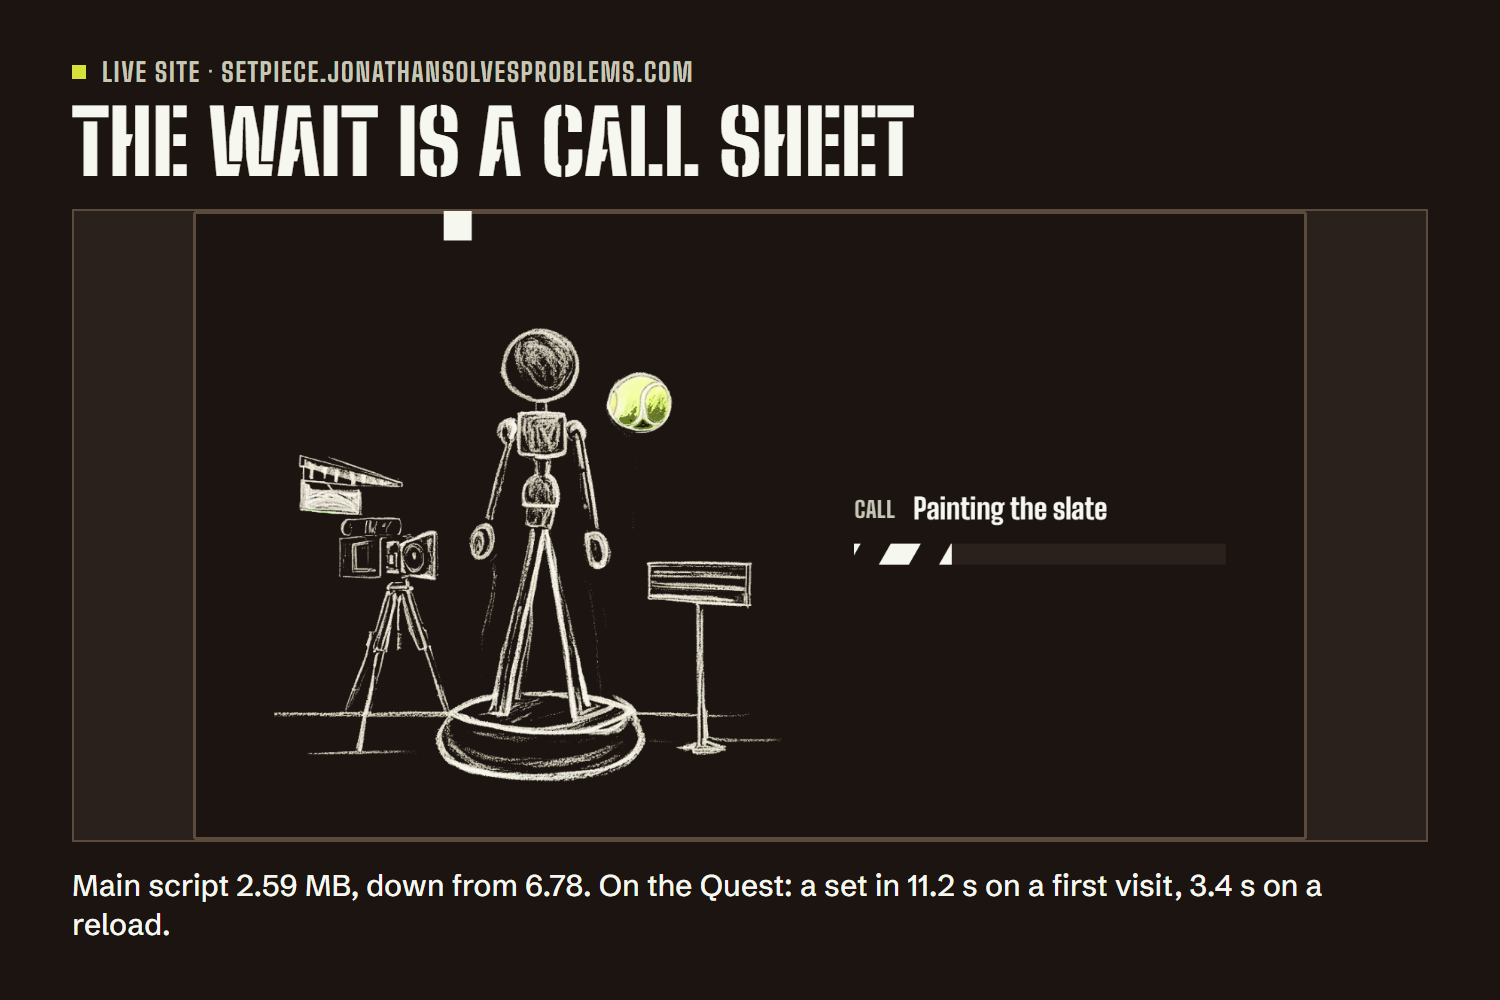
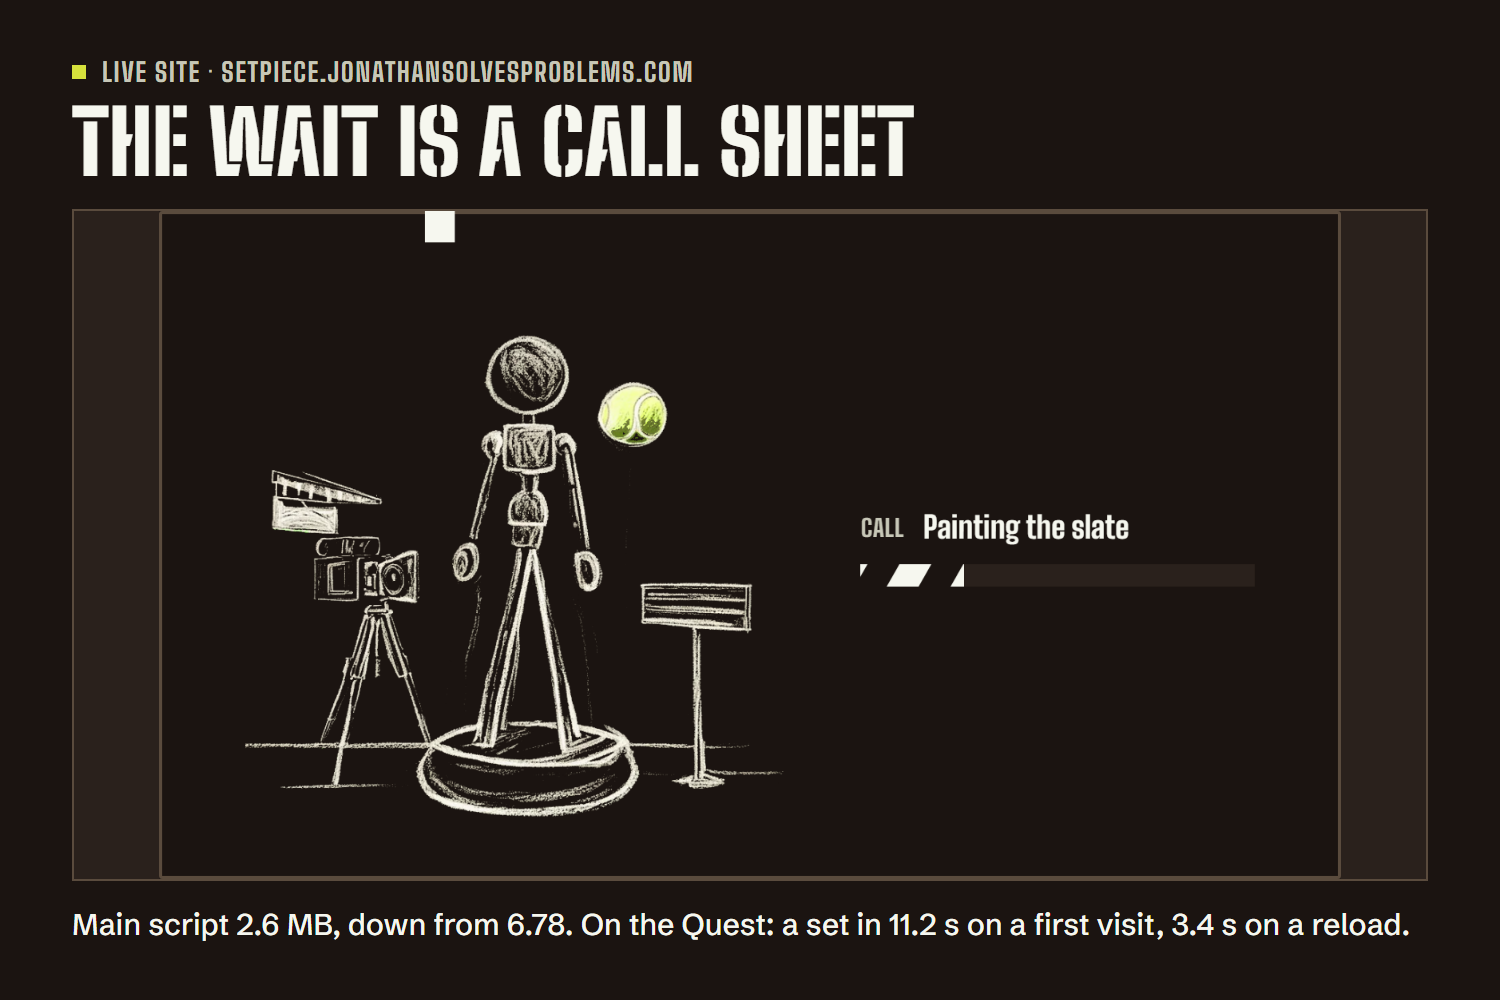
Record the evening's validation on the card, the size of this build and its live checks

Changed region(s): [[0.0307, 0.31, 0.9507, 0.961], [0.552, 0.496, 0.7667, 0.589], [0.276, 0.186, 0.3373, 0.248]]

diff --git a/PHASE0.md b/PHASE0.md
@@ -251,6 +251,10 @@ Nov 12 afternoon, two and a half minutes on the headset with the session logged,
 
 What was changed because of it (1a175a2), all proven in the emulator only. Sizing is gentle and bounded: hands that start close count as 20 cm apart, a piece goes from half to 2.2 times and never longer than 0.9 m, it settles on the kit's sizes, a fist starts it as a pinch does, fingers on the carried piece are for it whatever else is inside its shape, and the Size button's first press goes back to the piece's own size (`tmp/val14.py`, 14 of 14). A vehicle knocks someone down only when driven at them, the way it points or straight back, and whatever moves has to be heading for them (`tmp/t-carry.mjs`). A set asked for while a take plays or records stops the take and is built, and a set started over strikes the old take (`tmp/val19.py`, 10 of 10). Two panel presses a moment apart count as one, and a hand with its fingers on an oversize piece is for the piece, not for the panel behind it. What came of a spoken sentence is written under the button on the panel as well as on the sheet, and the recogniser is no longer told "our", "any", "your", "my", "these", "those". Undo: the set is remembered at each quiet moment and one press, or "undo" or "bring it back", puts it back as it stood before the last change, 24 deep (`tmp/val20.py`, 12 of 12). For the frame rate, half of the input pass in the emulator turned out to be the panel's 280 small meshes, tried by each hand's ray and each fingertip on every frame: the panel is closed to the hand pointers unless a hand points at it or reaches for it (3.3 ms to 1.7 ms a frame in the emulator, not yet measured on the headset; the watcher now also records where the input pass spends its time). The tagline no longer says "median 90 fps": it says "never under 60 fps", which all 56 headset samples support and `tools/check-claims.mjs` now enforces. A test lesson: the main suite's take step raced the take's 12 s limit and lost on a busy laptop, pressing Play where Record had been; it waits for the limit now.
 
+Nov 12 evening, the validation asked for after that session. A fresh reader, given the session log and the code but not my conclusions, walked the first ten minutes as a newcomer and came back with twelve ranked findings; I found a thirteenth myself. Mine first, because it undid a claim two paragraphs up: the line under the voice button never showed what came of a sentence. The note it read is cleared by the call sheet inside the same call, so the panel only ever said "Heard: ...", and the emulator had no test on that path. From the log, beyond what the wearer said: the session opened on a set left over from Nov 10, so the truck was not theirs and landing was never shown; the whole set was dragged by its edge in every hands-on session so far ("Moved by hand" in the log each time); a camera brushed for a second took the call sheet from step 2 to step 4, and both recent sessions ended on step 4 with no frame; the take that looped for half a minute was a camera cut with nothing carried.
+
+What was changed because of it (b315aba), emulator only (`tmp/val21.py` 15 of 15, `tmp/val22.py` 22 of 22, `tmp/val14.py` 14 of 14, then the full run of 19 suites). The panel has one block under the title that repeats the call sheet where the pressing hand is looking: the next step, every passing note for as long as the sheet keeps it, the take's clock, the stage status when it changes, and a heard sentence with what came of it. It took the place of the STAGE row and keeps its height, so nothing under it moves. Notes stay longer when they are longer, and a line too long for the sheet is set on two lines instead of running off it. Two-hand sizing has a 4 cm dead zone, so a second hand that came to help carry changes nothing, and no piece is stretched longer than 60 cm. A twitch on the set's edge leaves the set where it stood; a real drag is kept and Undo puts it back. New board, Reset stage and a new Clear (take) button ask twice and say what they will cost. A pass with a camera cut and nothing carried is not a take. The call sheet ticks "moved" and "framed" only when the piece was carried 3 cm or the camera turned. The piece the panel is about to change keeps its ring. A first frame that misses the brief is answered "FRAME 1 IS ON THE BOARD" before the reason, the seventh frame says the oldest left the card, a spoken set whose pieces are all there says so and says how to take one off, and a pinch quicker than the landing outline's rest lands the set at the outline, not at the fingertip in mid-air. The page's Start over is for the next person: it also forgets where the set stood and shows every step again. A second fresh reader then reviewed that diff before it shipped and found ten defects in it, all fixed: Undo could have moved a set that had been landed again to the place an old drag began; a floating set put back by Undo was saved as if it had a place; the panel kept the take's clock after the sheet was put away; the seventh frame's note hid what the brief made of the frame; a warning stayed up after its second press; a line longer than its block pushed the buttons down (the block is now a fixed three lines and what it says is cut to fit, checked against every brief and the longest notes); two actors in two hands could leave the sheet stuck on a step. Left alone on purpose, because they need real hands to tune: how shut a hand must be to count as a grab (11 of 14 pick-ups in the session were by fist, and the selected piece changed 16 times in 100 seconds), and the speed at which a vehicle let go rolls on.
+
 Dates, revised on Nov 9: next device session (later this week): first, push a car with a real hand and let go, then the timed run (field 6), five relaunches with and five without the saved pose, a `metavr perf capture` trace, the occlusion trial looked at, and a watch for the panel text that vanished once on Nov 6. Nov 12: the outreach sent and named; three outside testers timed. Nov 14: video captured in the headset; Sookra's profile re-checked. Nov 16: the gate, with the fresh-clone test, the cold judge again and a review of the final diff. Nov 17: submit, and the teardown reminder for Dec 14 created in the same session. Nothing deploys after Nov 18 12:00 PT.
 
 ## Build dates

diff --git a/devpost/sources.md b/devpost/sources.md
@@ -36,7 +36,7 @@ All on a Meta Quest 3S in the Quest Browser, hands tracked, on the live site.
 
 | Number | Source |
 |---|---|
-| The main script is 2.59 MB, down from 6.78 MB | Vite's build output for commits 93ad62d and f140935, in `devpost/results/load-and-size.json` (34b580d was 2.54 before the rebuilt models and driving, 9807181 was 2.56 before the pickup, truck, bus and boat were rebuilt, ee2c915 was 2.57 before the spoken controls); the live size is checked by `tools/check-live.mjs` |
+| The main script is 2.6 MB, down from 6.78 MB | Vite's build output for commits b315aba and f140935, in `devpost/results/load-and-size.json` (34b580d was 2.54 before the rebuilt models and driving, 9807181 was 2.56 before the pickup, truck, bus and boat were rebuilt, ee2c915 was 2.57 before the spoken controls, 93ad62d was 2.59 before Undo and the panel's own line); the live size is checked by `tools/check-live.mjs` |
 | The recogniser heard "Mexican standoff" in 14 of 14 sentences spoken by two synthetic voices, and wrote nearly every other word | `devpost/results/voice-recognition.json`: Windows voices played into the real recogniser through a fake microphone in desktop Chromium. Not a real voice, and not the headset's microphone |
 | The voice model is 41.1 MB (the panel rounds it to "a 40 MB download") plus a 4.3 MB worker | `public/voice/`, listed by `tools/check-live.mjs`. The model is vosk-model-small-en-us-0.15, Apache-2.0: https://alphacephei.com/vosk/models |
 | Jitter while a held piece is still fell by 61% and the lag of a fast turn halved, with the filter in `src/hand-turn.ts` | A simulation of tracking noise at 0.2 to 0.4 degrees against both versions of the turn code (tmp/turn-sim.mjs); the filter is the One Euro filter, Casiez, Roussel and Vogel, CHI 2012 |

diff --git a/devpost/checks/last-run.md b/devpost/checks/last-run.md
@@ -1,22 +1,22 @@
 # Live site checks
 
-Run on 2026-11-12 22:31 UTC against https://setpiece.jonathansolvesproblems.com/ by `node tools/check-live.mjs`. Build served: 1a175a2-20261112T2229.
+Run on 2026-11-13 00:47 UTC against https://setpiece.jonathansolvesproblems.com/ by `node tools/check-live.mjs`. Build served: b315aba-20261113T0047.
 
 **35 of 35 passed.**
 
 | Check | Result | Detail |
 |---|---|---|
-| the page answers over HTTPS | pass | 200, 297 ms |
+| the page answers over HTTPS | pass | 200, 252 ms |
 | it is Setpiece | pass |  |
 | search engines are allowed to index it | pass | no X-Robots-Tag |
 | the loading card is in the page | pass |  |
 | the page controls start locked until the set is ready | pass |  |
 | the page signs itself | pass |  |
-| the app script is named in the page | pass | assets/index-C0NuggZ5.js |
+| the app script is named in the page | pass | assets/index-C-HHpER3.js |
 | version.json is served | pass | 200 |
-| version.json names a build | pass | 1a175a2-20261112T2229 |
-| the app script is served | pass | 200, 2.59 MB |
-| the app script is under 3 MB | pass | 2.59 MB |
+| version.json names a build | pass | b315aba-20261113T0047 |
+| the app script is served | pass | 200, 2.60 MB |
+| the app script is under 3 MB | pass | 2.60 MB |
 | the served script carries the same build as version.json | pass |  |
 | the voice words include the directing words | pass | 2 chunks |
 | the icon library is not in any chunk | pass |  |

diff --git a/devpost/gallery/captions.md b/devpost/gallery/captions.md
@@ -77,7 +77,7 @@ After a reload in the headset the panel lists what came back: the set, the piece
 ## 13 load
 
 ```
-Main script 2.59 MB, down from 6.78. On the Quest: a set in 11.2 s on a first visit, 3.4 s on a reload.
+Main script 2.6 MB, down from 6.78. On the Quest: a set in 11.2 s on a first visit, 3.4 s on a reload.
 ```
 
 ## 14 leave
